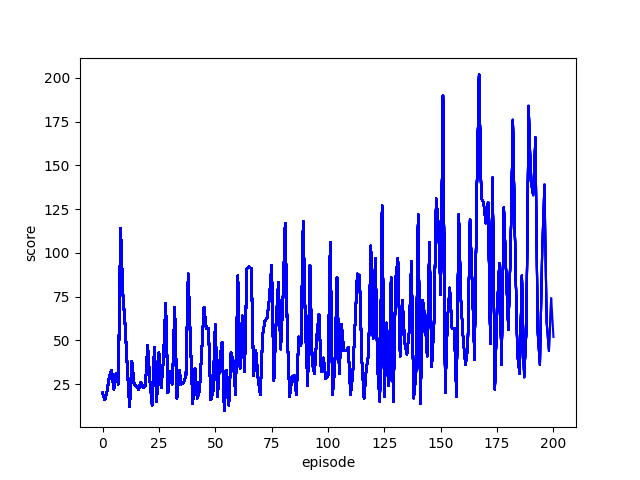
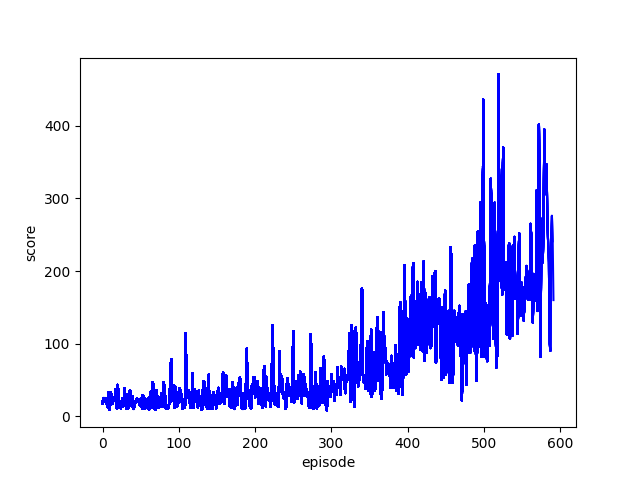
m

diff --git a/KCY/RLearn/2-cartpole/4-reinforce/test.py b/KCY/RLearn/2-cartpole/4-reinforce/test.py
@@ -32,12 +32,17 @@ class REINFORCEAgent:
         self.action_size = action_size
 
         self.model = REINFORCE(self.action_size)
-        self.model.load_weights('save_model/trained/model')
+        self.model.load_weights('save_model/model')
 
     # 정책신경망으로 행동 선택
+    # def get_action(self, state):
+    #     policy = self.model(state)[0]
+    #     return np.argmax(policy)
+    
     def get_action(self, state):
         policy = self.model(state)[0]
-        return np.argmax(policy)
+        policy = np.array(policy)
+        return np.random.choice(self.action_size, 1, p=policy)[0]
 
 
 if __name__ == "__main__":

diff --git a/KCY/RLearn/2-cartpole/4-reinforce/train.py b/KCY/RLearn/2-cartpole/4-reinforce/train.py
@@ -88,7 +88,7 @@ if __name__ == "__main__":
 
     scores, episodes = [], []
 
-    EPISODES = 201
+    EPISODES = 1000
 
     for e in range(EPISODES):
         done = False
